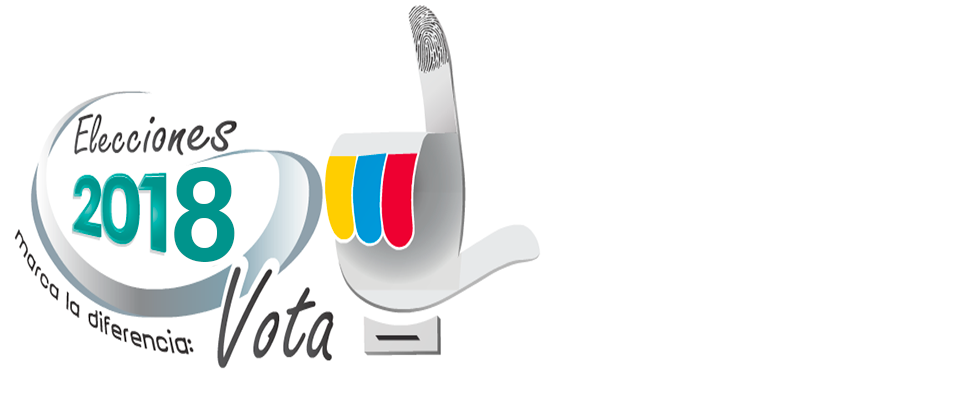
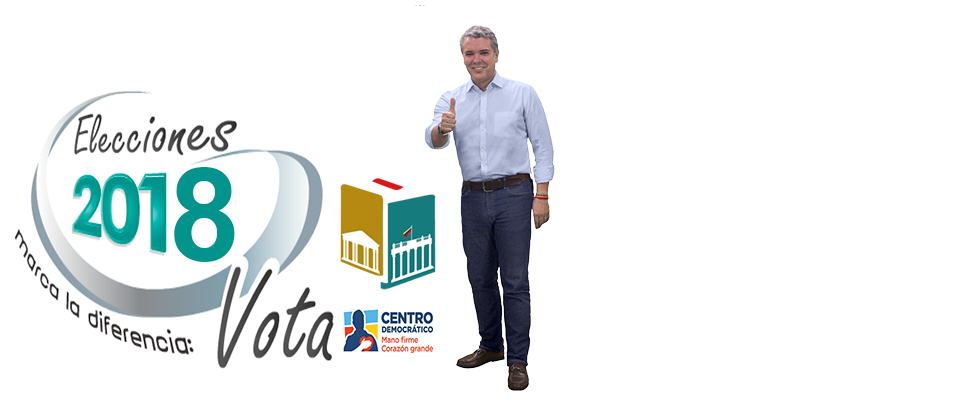
ajustes

Changed region(s): [[0.3125, 0.0, 0.5938, 0.9826]]

diff --git a/index.php b/index.php
@@ -55,7 +55,7 @@ ul.newsticker a:hover {text-decoration: underline;}
 <script>
 		$(document).ready(function(){
 			$("#countdown").countdown({
-				date: "11 march 2018 08:00:00",
+				date: "27 may 2018 08:00:00",
 				format: "on"
 			},
 			function() {
@@ -72,9 +72,9 @@ ul.newsticker a:hover {text-decoration: underline;}
 <div id="marque">
 <div class="first">
 <marquee>
-<strong> DESDE EL 11 DE ENERO AL 11 DE FEBRERO DE 2018 </strong><span>Sorteo y publicación de listas de jurados de votación (Durante un mes). </span><span style="color:#FF0000"></span> &nbsp;&nbsp;&nbsp;&nbsp;&nbsp;
-<strong> 29 DE ENERO DE 2018 </strong><span>Conformación de listas Delegados del Consejo Nacional Electoral (30 días antes de la elección ). </span><span style="color:#FF0000"></span> &nbsp;&nbsp;&nbsp;&nbsp;&nbsp;
-
+<!--<strong> DESDE EL 11 DE ENERO AL 11 DE FEBRERO DE 2018 </strong><span>Sorteo y publicación de listas de jurados de votación (Durante un mes). </span><span style="color:#FF0000"></span> &nbsp;&nbsp;&nbsp;&nbsp;&nbsp;
+<strong> 29 DE ENERO DE 2018 </strong><span style="color:#FF0000"></span> &nbsp;&nbsp;&nbsp;&nbsp;&nbsp;
+-->
 </marquee>
 </div>
 </div>
@@ -83,8 +83,8 @@ ul.newsticker a:hover {text-decoration: underline;}
 						<li>
 							<img src="images/img1.png" alt="">
 							<div class="banner">
-								<span class="title"><span class="color2">Elecciones</span><span class="color1">Congreso</span><span> 2018</span></span>
-								<p>Cuenta Regresiva para el 11 de Marzo de 2018<div class="timer-area" style=" margin-right:-100px">	
+								<span class="title"><span class="color2">Ivan Duque</span><span class="color1">Presidenciales</span><span> 2018</span></span>
+								<p>Cuenta Regresiva para el 27 de Mayo de 2018<div class="timer-area" style=" margin-right:-100px">	
 										<ul id="countdown">
 											<li>
 												<span class="days">00</span>
